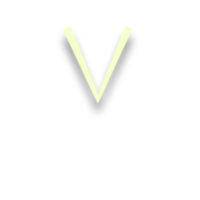
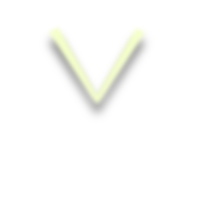
Updated color wheel picture and now left/right moves V rather than the wheel.

Changed region(s): [[0.24, 0.12, 0.48, 0.54], [0.51, 0.12, 0.75, 0.51]]

diff --git a/Model/Level.cs b/Model/Level.cs
@@ -272,9 +272,9 @@ namespace Spectrum.Model
             string label = (player.BlockLeft ? "true" : "false") + " " + (player.BlockRight ? "true" : "false");
             spriteBatch.DrawString(font, label, new Vector2(350, 540), Color.White);
 
-            float wheelRotation = (float) (2 * Math.PI / 6 * CurrentColor.Index());
-            spriteBatch.Draw(ColorWheel, new Vector2(10 + ColorWheel.Width/2, 10 + ColorWheel.Height/2), null, Color.White, wheelRotation, new Vector2(ColorWheel.Width / 2, ColorWheel.Height / 2), 1.0f, SpriteEffects.None, 1.0f);
-            spriteBatch.Draw(ColorWheelOverlay, new Vector2(10,10), Color.White);
+            float wheelRotation = (float) (2 * Math.PI / 6 * -CurrentColor.Index());
+            spriteBatch.Draw(ColorWheel, new Vector2(10 + ColorWheel.Width/2, 10 + ColorWheel.Height/2), null, Color.White, 0, new Vector2(ColorWheel.Width / 2, ColorWheel.Height / 2), 1.0f, SpriteEffects.None, 1.0f);
+            spriteBatch.Draw(ColorWheelOverlay, new Vector2(10 + ColorWheel.Width / 2, 10 + ColorWheel.Height / 2), null, Color.White, wheelRotation, new Vector2(ColorWheel.Width / 2, ColorWheel.Height / 2), 1.0f, SpriteEffects.None, 1.0f);
         }
 
         public override string ToString()

diff --git a/Model/Colors.cs b/Model/Colors.cs
@@ -183,10 +183,10 @@ namespace Spectrum.Model
             }
             else
             {
-                int next = (int)Bitstring >> 1;
-                if (next <= 0)
+                int next = (int)Bitstring << 1;
+                if (next > 1 << 5)
                 {
-                    next = 1 << 5;
+                    next = 1;
                 }
                 return new Colors(next);
             }
@@ -200,14 +200,14 @@ namespace Spectrum.Model
             }
             else
             {
-                int next = (int)Bitstring << 1;
-                if (next > 1 << 5)
+                int next = (int)Bitstring >> 1;
+                if (next <= 0)
                 {
-                    next = 1;
+                    next = 1 << 5;
                 }
                 return new Colors(next);
             }
-          }
+        }
 
         public override string ToString()
         {
